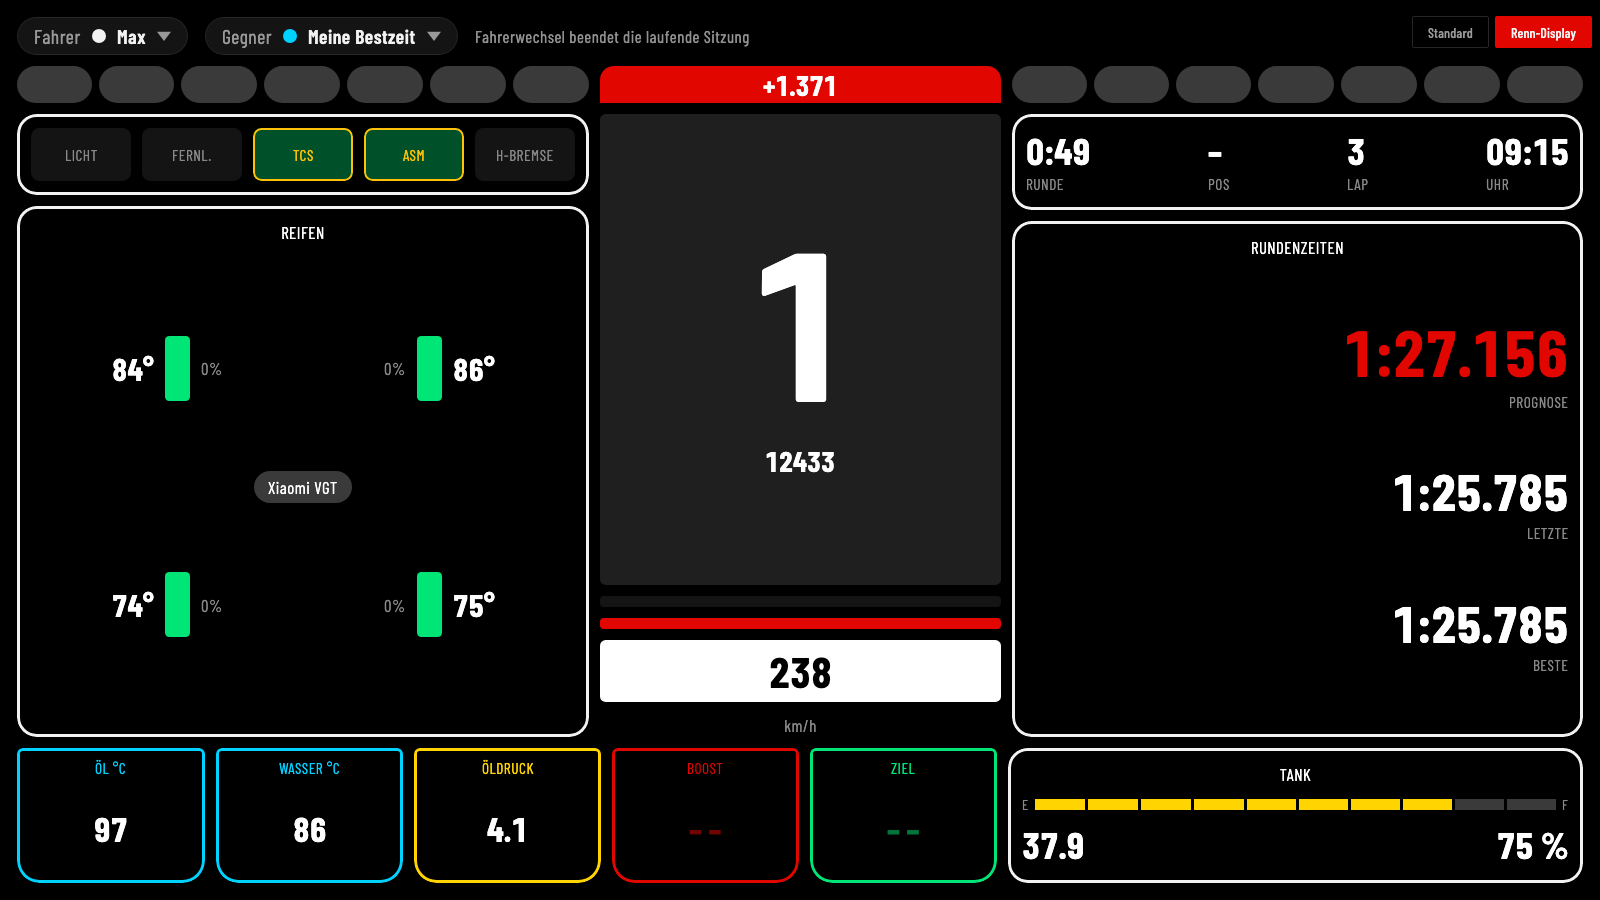
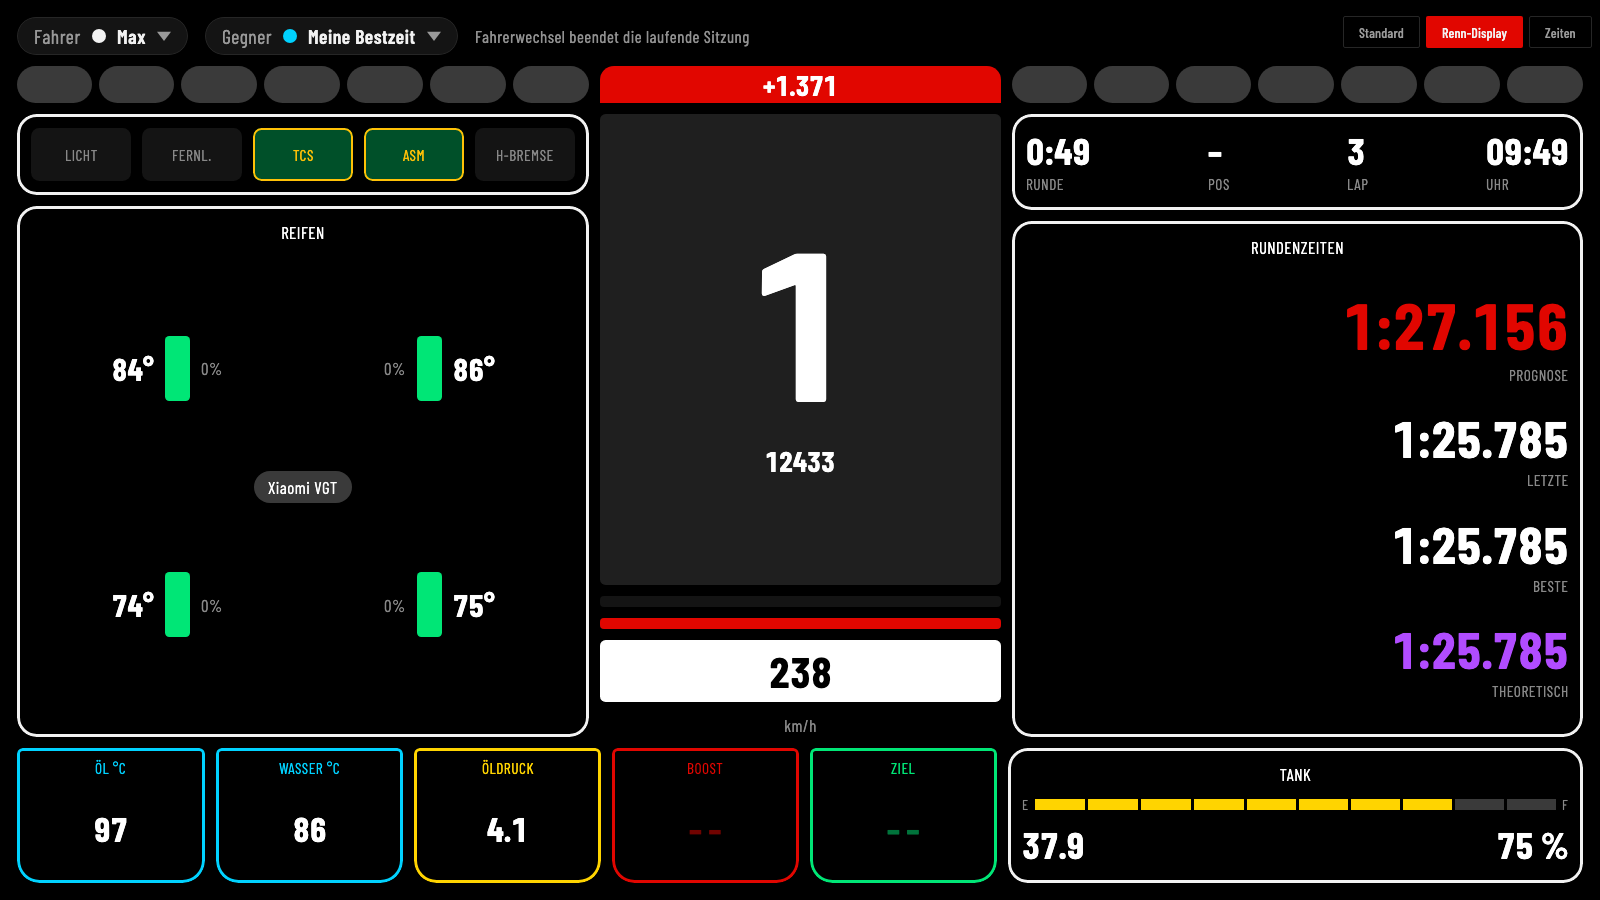
docs: README with times display and theoretical best

Changed region(s): [[0.8438, 0.3111, 1.0, 0.7778], [0.8438, 0.0, 1.0, 0.0622], [0.9375, 0.1556, 0.9688, 0.1867]]

diff --git a/README.md b/README.md
@@ -14,9 +14,13 @@ Tempo, Gang mit Schaltblitz, Prognose und Delta zur Referenzrunde, Gas- und Brem
 
 ![Live-Tipp](docs/screenshots/live-tip.png)
 
-Das **Renn-Display** zeigt dasselbe groß und kontrastreich, mit Fahrhilfen, Öl- und Wassertemperatur und Tank:
+Das **Renn-Display** zeigt dasselbe groß und kontrastreich, mit Fahrhilfen, Öl- und Wassertemperatur und Tank – und den Rundenzeiten samt theoretischer Bestzeit der Sitzung (Summe der besten Sektoren):
 
 ![Renn-Display](docs/screenshots/live-race.png)
+
+Das Dashboard **Zeiten** zeigt nur das Wesentliche in sehr großer Schrift: die theoretische Bestzeit, das Delta und alle Rundenzeiten der Sitzung, die schnellste in Grün.
+
+![Zeiten](docs/screenshots/live-times.png)
 
 ### Analyse-Cockpit mit Renningenieur
 
